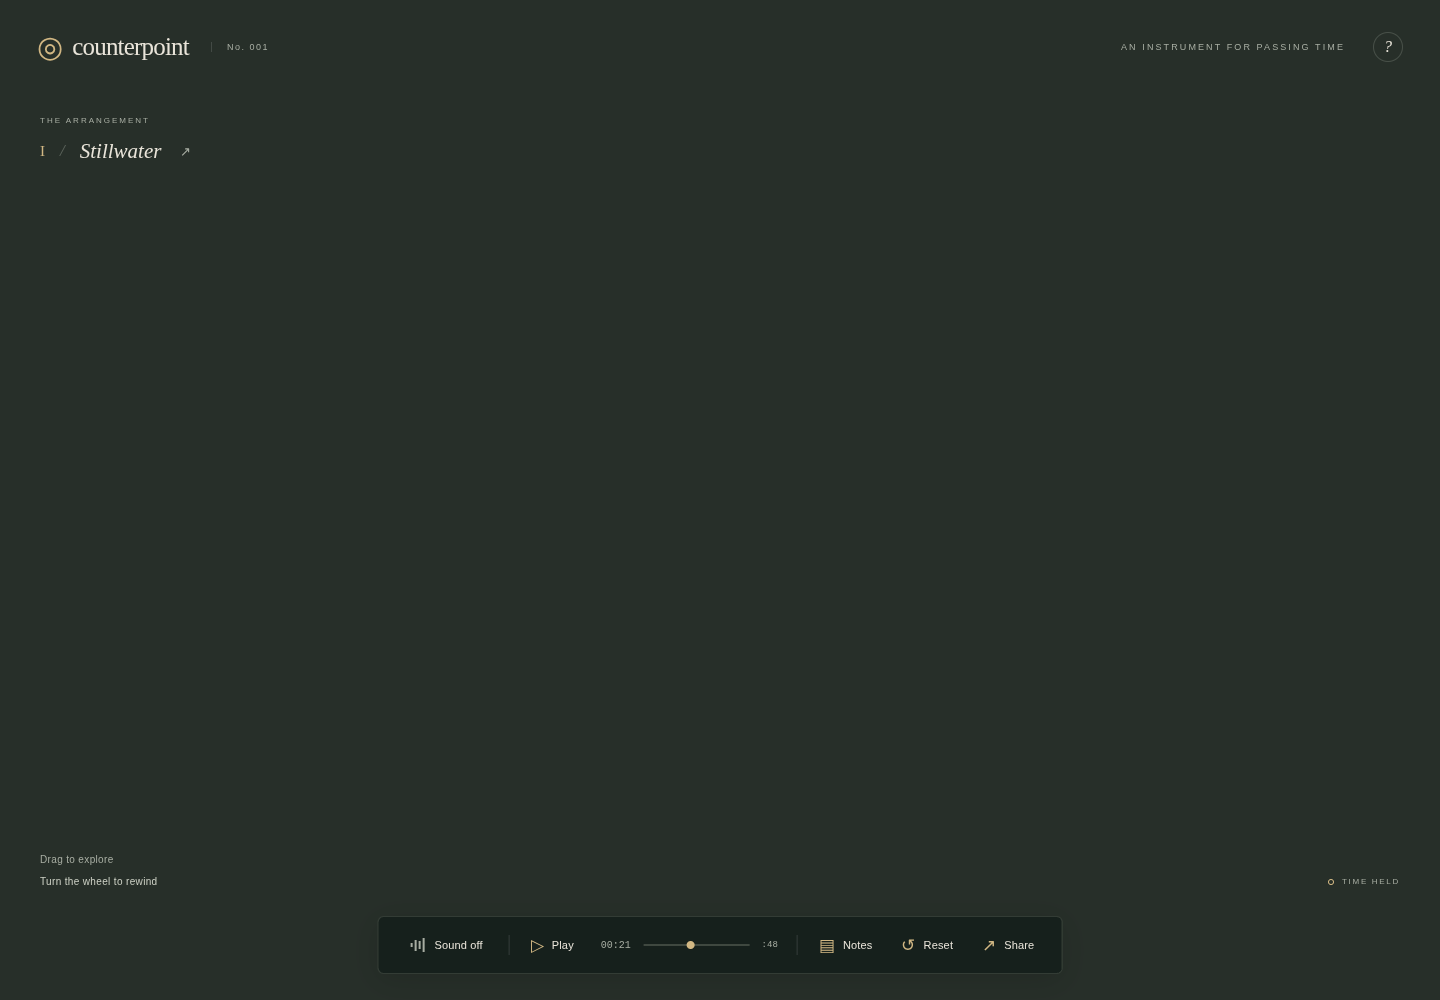
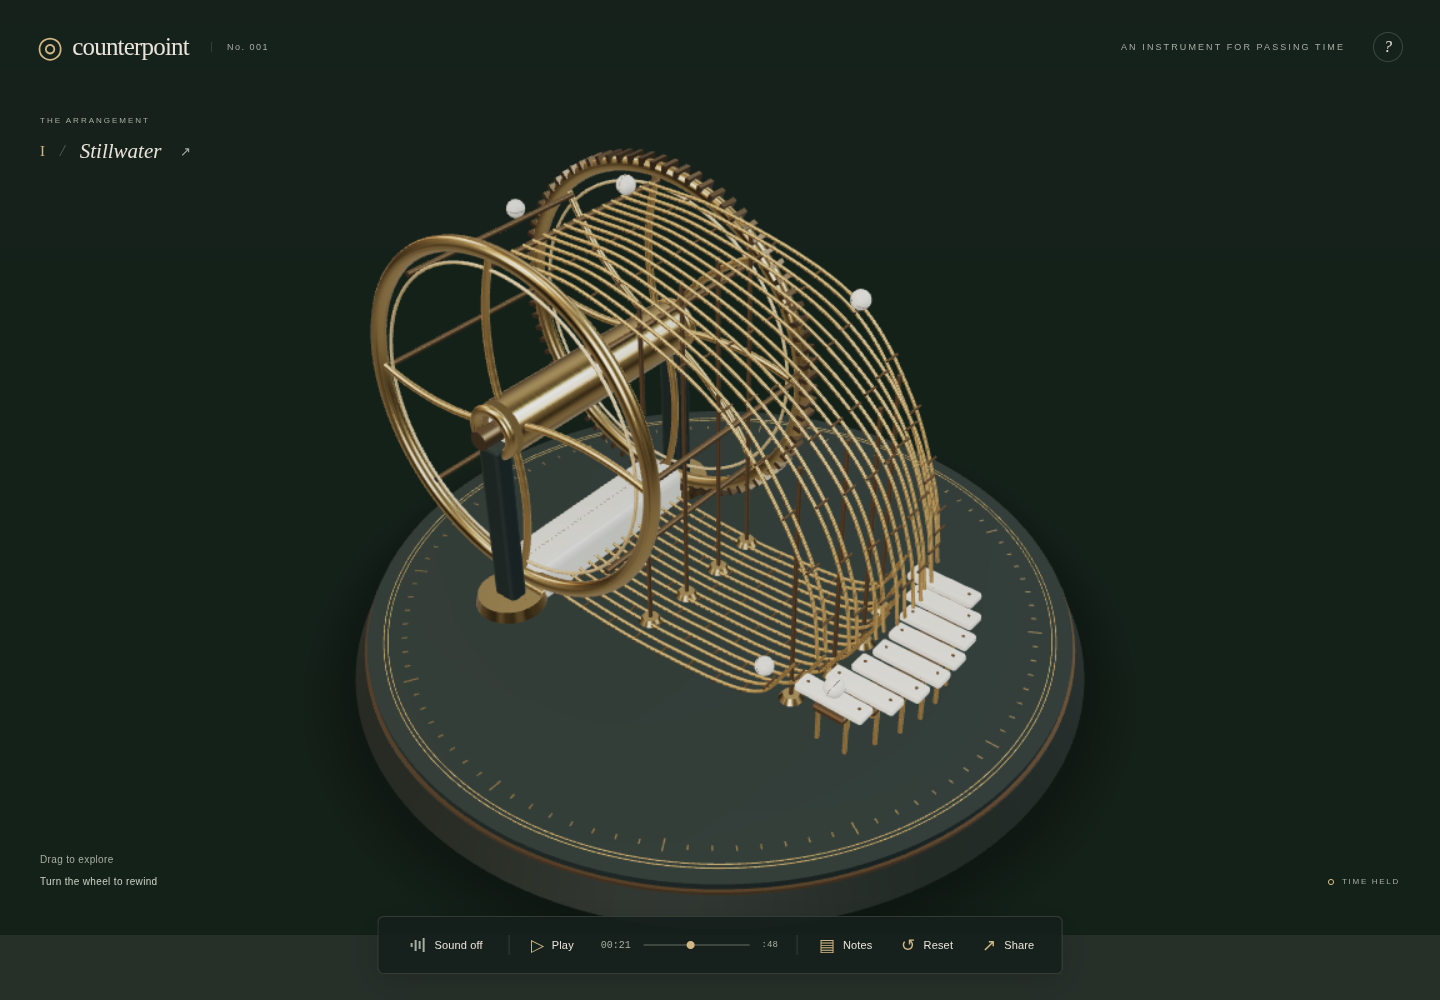
Keep paused sculpture visible after viewport resize

Changed region(s): [[0.25, 0.155, 0.6875, 0.744], [0.25, 0.589, 0.75, 0.899], [0.6875, 0.527, 0.7188, 0.558]]

diff --git a/src/scene.ts b/src/scene.ts
@@ -5,7 +5,7 @@ import { mergeGeometries } from 'three/addons/utils/BufferGeometryUtils.js';
 import { materials } from './materials';
 import { makeRoute, sampleRoute,railCurve,railProgress,WHEEL,WHEEL_R,BALL_R,TAU } from './routes';
 export type CameraState = [number,number,number];
-export function createSculpture(canvas:HTMLCanvasElement,count=8,alternate=0,initialQuality='auto') {
+export function createSculpture(canvas:HTMLCanvasElement,count=8,alternate=0,initialQuality='auto',invalidate=()=>{}) {
  const renderer=new THREE.WebGLRenderer({canvas,antialias:true,alpha:false,powerPreference:'high-performance',preserveDrawingBuffer:false});
  const gl=renderer.getContext();const debug=gl.getExtension('WEBGL_debug_renderer_info');const rendererName=debug?String(gl.getParameter(debug.UNMASKED_RENDERER_WEBGL)):'';const software=/SwiftShader|llvmpipe|Software/i.test(rendererName);let quality=initialQuality==='auto'?(software?'low':'high'):initialQuality;renderer.setPixelRatio(quality==='low'?(software?.8:1):Math.min(devicePixelRatio,1.6));renderer.shadowMap.enabled=quality!=='low';renderer.shadowMap.type=THREE.PCFShadowMap;renderer.toneMapping=THREE.ACESFilmicToneMapping;renderer.toneMappingExposure=1.08;
  const scene=new THREE.Scene();scene.background=new THREE.Color(0x18201e);scene.fog=new THREE.FogExp2(0x18201e,.028);
@@ -85,7 +85,7 @@ export function createSculpture(canvas:HTMLCanvasElement,count=8,alternate=0,ini
  for(const obj of remove)staticRoot.remove(obj);
  for(const [m,gs] of staticGeos){const g=mergeGeometries(gs,false);if(g){const mesh=new THREE.Mesh(g,m);mesh.castShadow=true;mesh.receiveShadow=true;scene.add(mesh);}for(const geo of gs)geo.dispose();}
  let width=1,height=1;
- function resize(){width=canvas.clientWidth;height=canvas.clientHeight;renderer.setSize(width,height,false);camera.aspect=width/height;camera.fov=Math.min(85,2*Math.atan(Math.tan(Math.PI/10)/Math.min(1,camera.aspect))*180/Math.PI);camera.updateProjectionMatrix();}
+ function resize(){width=canvas.clientWidth;height=canvas.clientHeight;renderer.setSize(width,height,false);camera.aspect=width/height;camera.fov=Math.min(85,2*Math.atan(Math.tan(Math.PI/10)/Math.min(1,camera.aspect))*180/Math.PI);camera.updateProjectionMatrix();invalidate();}
  const observer=new ResizeObserver(resize);observer.observe(canvas);resize();
  function update(time:number,enabled:boolean[]=Array(8).fill(true),visible?:(index:number,eventTime:number)=>boolean){
   wheel.rotation.z=-time*TAU/12;

diff --git a/src/main.ts b/src/main.ts
@@ -12,7 +12,7 @@ const canvas=$<HTMLCanvasElement>('scene');let sculpture:ReturnType<typeof creat
 let quality=['low','high'].includes(params.get('quality')||'')?params.get('quality')!:'auto';let frameTimes:number[]=[];let pendingAt:number|null=null;
 function announce(message:string){$('toast').textContent=message;$('toast').classList.add('show');clearTimeout(toastTimer);toastTimer=window.setTimeout(()=>$('toast').classList.remove('show'),3100);}
 function fallback(message:string){$('fallback-message').textContent=message;$('fallback').hidden=false;}
-try{if(params.get('no-graphics')==='1')throw new Error('WebGL disabled for fallback review');sculpture=createSculpture(canvas,params.get('single')==='1'?1:8,Number(params.get('lighting'))||0,quality);quality=sculpture.stats().quality;sculpture.setCamera(imported.c);}
+try{if(params.get('no-graphics')==='1')throw new Error('WebGL disabled for fallback review');sculpture=createSculpture(canvas,params.get('single')==='1'?1:8,Number(params.get('lighting'))||0,quality,()=>{dirty=true;});quality=sculpture.stats().quality;sculpture.setCamera(imported.c);}
 catch(error){console.warn('Counterpoint graphics unavailable:',error instanceof Error?error.message:'WebGL unavailable');fallback('This instrument needs WebGL 2 to move. Enable 3D graphics in your browser, then try again.');transport.pause();$('retry').onclick=()=>location.reload();for(const el of document.querySelectorAll<HTMLButtonElement>('.dock button,#variation'))el.disabled=true;$('about-open').onclick=()=>$<HTMLDialogElement>('about').showModal();for(const close of document.querySelectorAll<HTMLButtonElement>('dialog .close'))close.onclick=()=>close.closest('dialog')!.close();return;}
 const s=sculpture!;
 const slider=$<HTMLInputElement>('time');const notes=$('parts-panel').querySelector('.notes')!;

diff --git a/tests/browser.spec.ts b/tests/browser.spec.ts
@@ -37,9 +37,9 @@ test('real controls, deterministic reverse, sound, share, and camera',async({pag
 });
 test('responsive layouts, reduced motion, keyboard and touch emulation',async({page,browser,browserName})=>{
  test.skip(browserName!=='chromium','Viewport and touch matrix is covered once in Chromium; engine interactions run separately.');
- await page.emulateMedia({reducedMotion:'reduce'});expect(await open(page,'?test=1&quality=low')).toBe(true);expect((await api(page).state()).playing).toBe(false);
+ await page.emulateMedia({reducedMotion:'reduce'});expect(await open(page,'?test=1&quality=low')).toBe(true);expect((await api(page).state()).playing).toBe(false);await page.evaluate(()=>(window as any).__counterpoint.setTime(21));
  for(const viewport of [{width:320,height:720},{width:390,height:844},{width:844,height:390},{width:1440,height:1000}]){
-  await page.setViewportSize(viewport);await page.evaluate(()=>(window as any).__counterpoint.setTime(21));expect(await page.evaluate(()=>document.documentElement.scrollWidth<=innerWidth)).toBe(true);
+  await page.setViewportSize(viewport);await expect.poll(async()=>(await page.locator('#scene').screenshot({timeout:120000})).byteLength,{timeout:120000}).toBeGreaterThan(12000);expect((await api(page).state()).time).toBe(21);expect(await page.evaluate(()=>document.documentElement.scrollWidth<=innerWidth)).toBe(true);
   for(const id of ['sound','play','parts','reset','share']){const box=await page.locator('#'+id).boundingBox();expect(box).not.toBeNull();expect(box!.x).toBeGreaterThanOrEqual(0);expect(box!.x+box!.width).toBeLessThanOrEqual(viewport.width+1);expect(box!.y+box!.height).toBeLessThanOrEqual(viewport.height);}
   await page.screenshot({path:`evidence/viewport-${viewport.width}x${viewport.height}.png`,timeout:120000});
  }

diff --git a/REVIEW_LOG.md b/REVIEW_LOG.md
@@ -78,3 +78,8 @@ Pending final candidate commit, clean checkout build, isolated Pages publication
 Final capture observations: selected/front/rear and contact/loop frames were inspected directly. The continuous browser recording contains running, wheel rewind, held-camera orbit and resumed playback; the published 80-second excerpt removes only the first 20 seconds of development-server startup. The original 100.32-second capture is retained in evidence/recordings. A sampled frame sheet is in evidence/video-frames; its empty sixth tile is padding, not a blank frame in the application.
 
 Timing evidence on d809529: high tier submitted 88 draw calls / 228,924 triangles; low tier 51 / 117,264. Both retained 25 uploaded geometries. Collected JS heap changed from 12,203,672 to 12,308,356 bytes over the short review, not a multi-hour leak claim. Unfiltered RAF intervals averaged 277 ms during the high-tier sample and 1,672 ms during the low-tier sample, including shader/tier transitions and VM stalls; these short samples do not establish comparative steady-state performance. The old diagnostic erroneously omitted intervals >=1 second (thus printed misleading ~17 ms means). The final candidate now includes those stalls and reevaluates adaptive quality after the initial sample window. The independent unfiltered timing report is retained unchanged. No 30/60 fps result is claimed for this software VM. Hidden-tab state was simulated because headless Chromium did not natively hide its background tab; the real handler held time and restored paused. Mouse release outside the canvas and Escape cancellation both ended scrubbing safely.
+
+
+Production correction after the first deployment (7ef8248 / Pages 5edf18d): the first automated production scenario returned green, but inspecting its 390px screenshot revealed an empty sculpture area. This result is explicitly rejected in `release-7ef8248-first.json`. The ResizeObserver cleared the WebGL drawing buffer after the earlier window-resize dirty flag had already been consumed. The observer now invalidates the scene after resizing, so a held scene receives another draw. The responsive test no longer seeks after each resize (which had masked the defect), and both responsive and production checks reject an empty canvas capture. New source/build and two fresh consecutive production checks are required; the prior green result does not count.
+
+Resize correction retest: the strengthened Chromium viewport/touch scenario passed in 44.7 seconds, with unchanged paused time and nonblank canvas captures at all four sizes. The 320px capture was inspected directly: the full machine is framed above the controls. Evidence: `chromium-paused-resize-regression.json` and updated `viewport-*.png`. This new regression explicitly checks rendering after resize without seeking or otherwise forcing a draw.

diff --git a/STATUS.md b/STATUS.md
@@ -1,6 +1,6 @@
 # Status — 2026-09-21
 
-Steps 1–3 complete. Step 4's seven review scopes are documented; final capture and release checks remain in progress. Source: https://github.com/why-el/counterpoint, master. Implementation through d809529.
+Steps 1–3 complete. Step 4's seven review scopes are documented; final capture and release checks remain in progress. Source: https://github.com/why-el/counterpoint, master. First deployment 7ef8248 was rejected during visual inspection for a paused-resize blank-canvas defect. The observer now invalidates the renderer; the strengthened viewport/touch regression passes. A new candidate and two consecutive live checks are required.
 
 Verified: 12 core tests; Chromium real controls, responsive/touch/pinch, accessibility behaviors, audio scheduling and waveform, resilience; WebKit 3D controls and audio activation; headed Firefox 3D controls and graceful unavailable-audio handling. Actual final front/three-quarter/rear, impact and loop images are in evidence/final-visual. Known coverage gaps: physical phones, perceptual audio listening, ordinary hardware performance, Firefox audio on this server, multi-hour soak testing.
 
